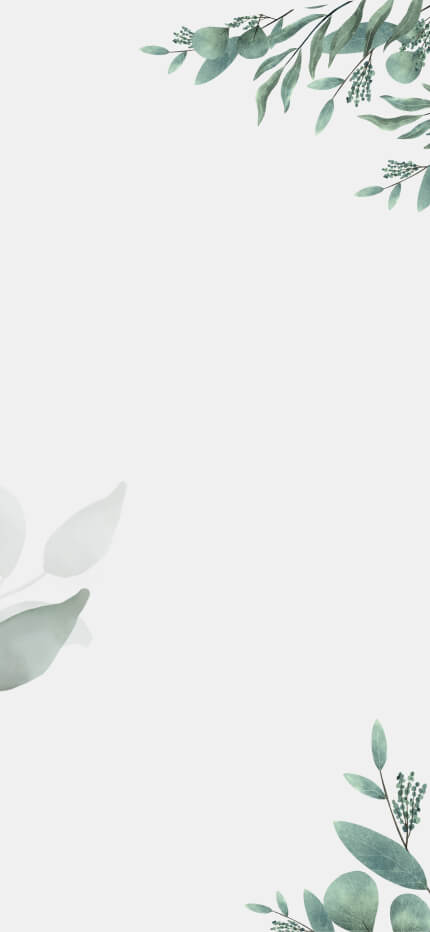
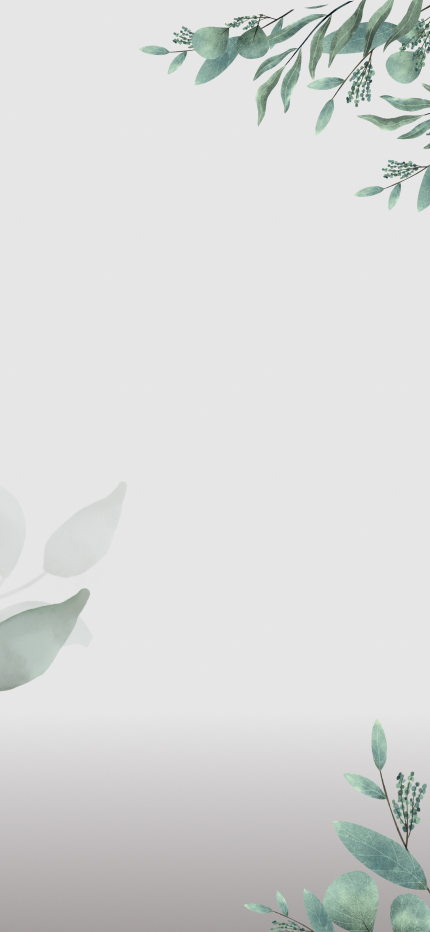
Mi Tercer commit

diff --git a/index.html b/index.html
@@ -8,12 +8,16 @@
     <link rel="stylesheet" href="./assets/css/global.css">
     <link rel="stylesheet" href="./assets/css/section-portada/iglesia.css">
     <link rel="stylesheet" href="./assets/css/section-portada/copa-conteiner.css">
+    <link rel="stylesheet" href="./assets/css/seccion-regalos/seccion-regalos.css">
 </head>
 <body>
     <section class="section-portada">
         <p>NOS CASAMOS!!!</p>
         <p>Majo &</p>
         <p>Cesar</p>
+        <figure class="foto-cetral">
+            <img src="./assets/img/foto-cetral.png" alt="">
+        </figure>
         <p>
         "CON LA BENDICIÓN DE NUESTROS PADRES
         QUEREMOS COMPARTIR CONTIGO ESTE DÍA
@@ -24,19 +28,19 @@
             <p>Sabado 03 | A las 20:00</p>
             <p>PARROQUIA SAN CHÁRBEL</p>
             <p>(Clementino Ocampos, Asunción)</p>
-            <a href="">Ver ubicación</a>
+            <a href="https://maps.app.goo.gl/BLuShewjEXeCaX156?g_st=iw ">Ver ubicación</a>
         </figure>
         <figure class="copa-conteiner">
             <img src="./assets/svg/copa.svg" alt="">
-            <p>TERMINADA LA CEREMONIA</p>
-            <p>TE ESPERAMOS EN LA RIVIÉRE</p>
+            <p>Terminada la ceremonia..</p>
+            <p>Te esperamos en la Riviére</p>
             <p>(PASEO DEL YACHT)</p>
-            <a href="">Ver ubicación</a>
+            <a href="https://maps.app.goo.gl/uv8BDf3nY23Wz6ddA?g_st=iw ">Ver ubicación</a>
         </figure>
     </section>
 
     <section class="section-regalos">
-        
+        <p>Hola</p>
     </section>
     <section>
 

diff --git a/assets/css/section-portada/section-portada.css b/assets/css/section-portada/section-portada.css
@@ -7,9 +7,9 @@
     src: url(../../fonts/BrittanySignature.ttf);
 }
 .section-portada {
-    height: 800px;
+    height: 1000px;
     width: 100%;
-    background-image: url(../../img/fonto-portada2.jpg);
+    background-image: url(../../img/fondo-v2.jpg);
     background-size: cover;
     background-attachment: fixed;
     background-position: center;
@@ -18,26 +18,32 @@
     text-align: center;
 }
 .section-portada > p:nth-child(1){
-    margin-bottom: 15px;
+    margin: 1rem;
     color: #3f4640;
     font-family: montserrat;
-    font-size: 30px;
+    font-size: x-large;
     font-weight: bold;
+}
+
+.foto-central img{
+    margin: 0;
+    padding: 0%;
 }
 .section-portada > p:nth-child(2),
 .section-portada > p:nth-child(3){
     margin:0;
     font-family: britanny;
-    font-size: 80px;
+    font-size: 60px;
     color: #3C5447;
+    font-weight: bold;
 }
 
-.section-portada > p:nth-child(4){
-    margin-top: 20px;
+.section-portada > p:nth-child(5){
+    margin: 0px;
     text-align: center;
     font-family: montserrat;
-    font-size: smaller;
+    font-size: small;
     color:  #3f4640;
-    font-weight: bold;
     font-style: italic;
+    font-weight: bold;
 }

diff --git a/assets/css/section-portada/iglesia.css b/assets/css/section-portada/iglesia.css
@@ -6,10 +6,15 @@
     display: inline-block;
     text-align: center;
 }
+.iglesia-conteiner img{
+    border: double 7px #63766C;
+    border-radius: 10px;
+    padding: 2px;
+}
 .iglesia-conteiner p:nth-child(2){
     margin: 0;
     font-family: montserrat;
-    font-size: medium;
+    font-size: small;
     font-weight: bold;
     color:  #3f4640;
 }
@@ -27,11 +32,16 @@
     color: #3f4640;
     font-size: small;
     font-style: italic;
+    margin-bottom: 16px;
 }
-.iglesia-conteiner > a{
-    margin: 0;
+.iglesia-conteiner  a{
     font-weight: bold;
     font-family: montserrat;
-    color: #3f4640;
+    color: #E6E6E6;
     font-size: small;
+    background-color: #3f4640;
+    padding: 10px;
+    border-radius: 8px;
+    text-decoration: none;
+    margin-bottom: 100px;
 }

diff --git a/assets/css/section-portada/copa-conteiner.css b/assets/css/section-portada/copa-conteiner.css
@@ -3,8 +3,13 @@
     src: url(../../fonts/Loubag-Regular.ttf);
 }
 .copa-conteiner {
-    margin: 0;
+    margin: 15px;
     text-align: center;
+}
+.copa-conteiner img{
+    border: double 7px #63766C;
+    border-radius: 10px;
+    padding: 2px;
 }
 .copa-conteiner p:nth-child(2),
 .copa-conteiner p:nth-child(3){
@@ -21,11 +26,15 @@
     font-style: italic;
     font-weight: lighter;
     color: #3f4640;
+    margin-bottom: 16px;
 }
 .copa-conteiner > a{
-    margin: 0;
     font-weight: bold;
     font-family: montserrat;
-    color: #3f4640;
+    color: #E6E6E6;
     font-size: small;
+    background-color: #3f4640;
+    padding: 10px;
+    border-radius: 8px;
+    text-decoration: none;
 }
